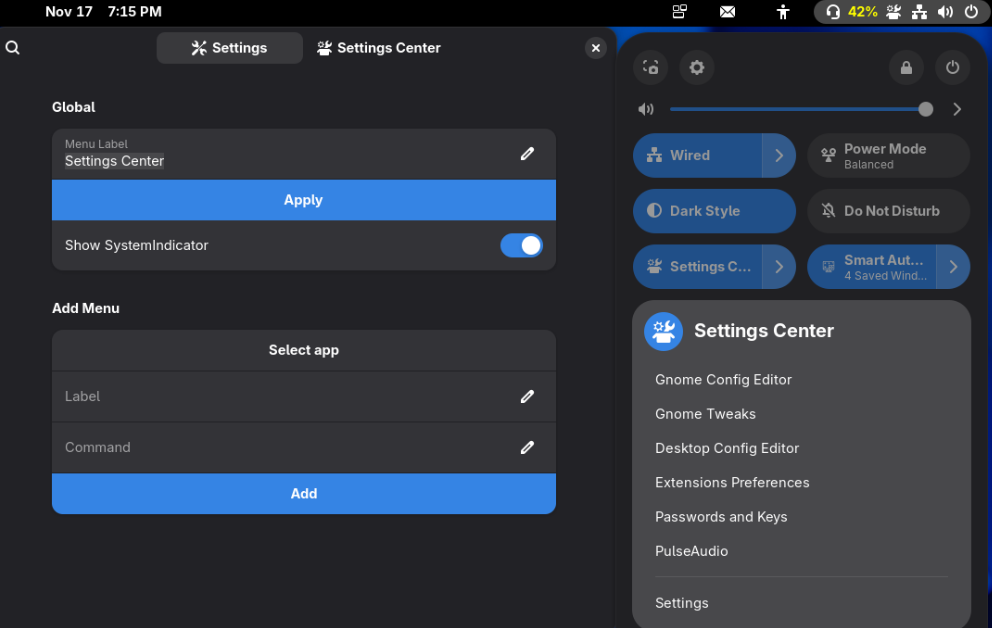
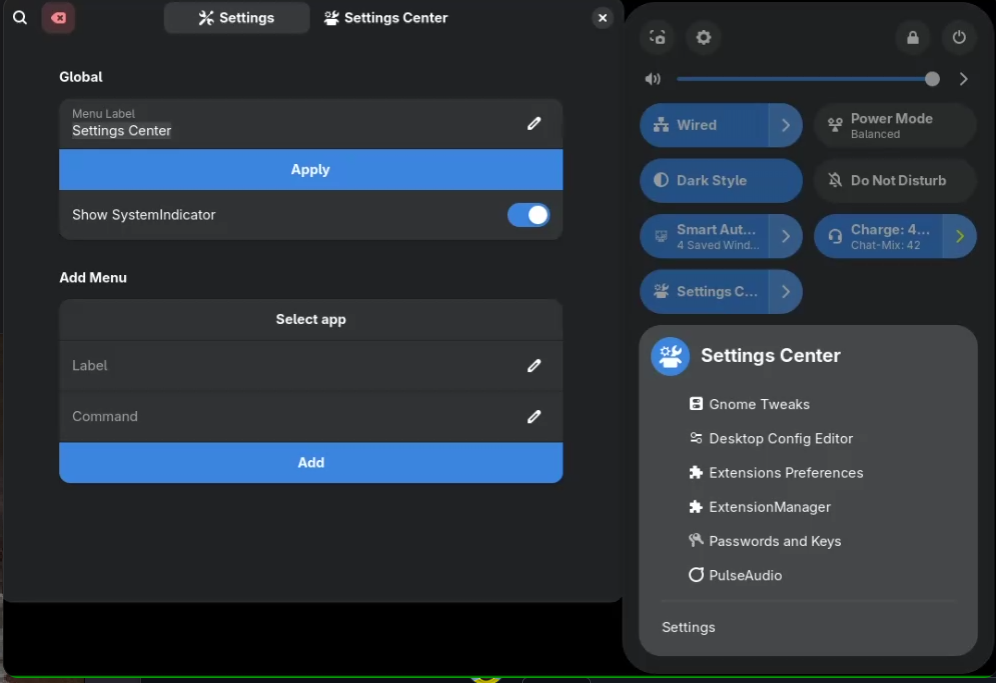
Enhances menu item handling and updates metadata (#26)
* Enhances menu item handling and updates metadata

Improves menu item creation by using PopupImageMenuItem for .desktop entries if the application is found.

Updates default items in the settings schema to reflect current application names and availability.

Increments extension version number.

* Adds reset settings functionality

Introduces a "Reset Settings" button to the preferences window, allowing users to revert settings to their default values.

The button is placed in the header bar and triggers a function that iterates through a list of specified keys, resetting them if they are writable. This provides a convenient way for users to quickly restore the default configuration.

* Updates ExtensionManager default visibility

Changes the default visibility of the ExtensionManager to hidden.

This ensures it's hidden by default, aligning with intended user
experience and preventing accidental access before proper configuration.

* Adds a utility function to find widgets by type

Implements a recursive function to search for a specific widget
type within a parent widget and its children. This utility
function can be re-used in multiple places.

* Updates screenshot image

* Updates Volume Control display name

Corrects the display name for Volume Control in the settings panel.
This ensures consistency and improved user experience.

* Updates translations and POT file

Updates the POT file with the latest strings.
[…]

diff --git a/SettingsCenter@lauinger-clan.de/prefs.js b/SettingsCenter@lauinger-clan.de/prefs.js
@@ -216,6 +216,49 @@ export default class AdwPrefs extends ExtensionPreferences {
         return fullPath.replace(/^.*[\\/]/, "");
     }
 
+    _findWidgetByType(parent, type) {
+        for (const child of parent) {
+            if (child instanceof type) return child;
+
+            const match = this._findWidgetByType(child, type);
+            if (match) return match;
+        }
+        return null;
+    }
+
+    _addResetButton(window, settings) {
+        const button = new Gtk.Button({
+            label: _("Reset Settings"),
+            icon_name: "edit-clear",
+            css_classes: ["destructive-action"],
+            vexpand: true,
+            valign: Gtk.Align.END,
+        });
+        button.set_tooltip_text(_("Reset all settings to default values"));
+        button.connect("clicked", () => {
+            this._resetSettings(settings, "all");
+        });
+
+        const header = this._findWidgetByType(window.get_content(), Adw.HeaderBar);
+        if (header) {
+            header.pack_start(button);
+        }
+    }
+
+    _resetSettings(settings, strKey) {
+        if (strKey === "all") {
+            // List all keys you want to reset
+            const keys = ["label-menu", "items", "show-systemindicator"];
+            for (const key of keys) {
+                if (settings.is_writable(key)) {
+                    settings.reset(key);
+                }
+            }
+        } else if (settings.is_writable(strKey)) {
+            settings.reset(strKey);
+        }
+    }
+
     fillPreferencesWindow(window) {
         window.search_enabled = true;
         window._settings = this.getSettings();
@@ -268,6 +311,7 @@ export default class AdwPrefs extends ExtensionPreferences {
         page2._group3 = null;
         this._buildList(menuItems, page2);
         window.set_default_size(675, 655);
+        this._addResetButton(window, window._settings);
         window.add(page1);
         window.add(page2);
     }

diff --git a/SettingsCenter@lauinger-clan.de/extension.js b/SettingsCenter@lauinger-clan.de/extension.js
@@ -36,7 +36,18 @@ const SettingsCenterMenuToggle = GObject.registerClass(
 
                 if (this._items.length > 0) {
                     for (const [index, item] of this._items.entries()) {
-                        const menuItem = new PopupMenu.PopupMenuItem(_(item.label), 0);
+                        let menuItem;
+                        if (item["cmd"].match(/.desktop$/)) {
+                            const app = Shell.AppSystem.get_default().lookup_app(item["cmd"]);
+                            if (app !== null) {
+                                menuItem = new PopupMenu.PopupImageMenuItem(_(item.label), app.icon.to_string(), {
+                                    style_class: "special-action",
+                                });
+                            }
+                        }
+                        if (!menuItem) {
+                            menuItem = new PopupMenu.PopupMenuItem(_(item.label), 0);
+                        }
                         menuItem.connect("activate", () => this.launch(item));
                         this.menu.addMenuItem(menuItem, index);
                     }
@@ -48,7 +59,7 @@ const SettingsCenterMenuToggle = GObject.registerClass(
                 settingsItem.visible = Main.sessionMode.allowSettings;
                 this.menu._settingsActions[Me.uuid] = settingsItem;
             } catch (error) {
-                this.getLogger().error(`Error in SettingsCenterMenuToggle constructor: ${error}`);
+                Me.getLogger().error(`Error in SettingsCenterMenuToggle constructor: ${error}`);
             }
         }
 

diff --git a/SettingsCenter@lauinger-clan.de/translation.js b/SettingsCenter@lauinger-clan.de/translation.js
@@ -12,6 +12,7 @@ const strFix5 = _("Extensions Preferences");
 const strFix6 = _("Passwords and Keys");
 const strFix7 = _("NVidia Settings");
 const strFix8 = _("ExtensionManager");
+const strFix9 = _("Volume Control");
 
 console.log(strFix1);
 console.log(strFix2);
@@ -21,3 +22,4 @@ console.log(strFix5);
 console.log(strFix6);
 console.log(strFix7);
 console.log(strFix8);
+console.log(strFix9);
